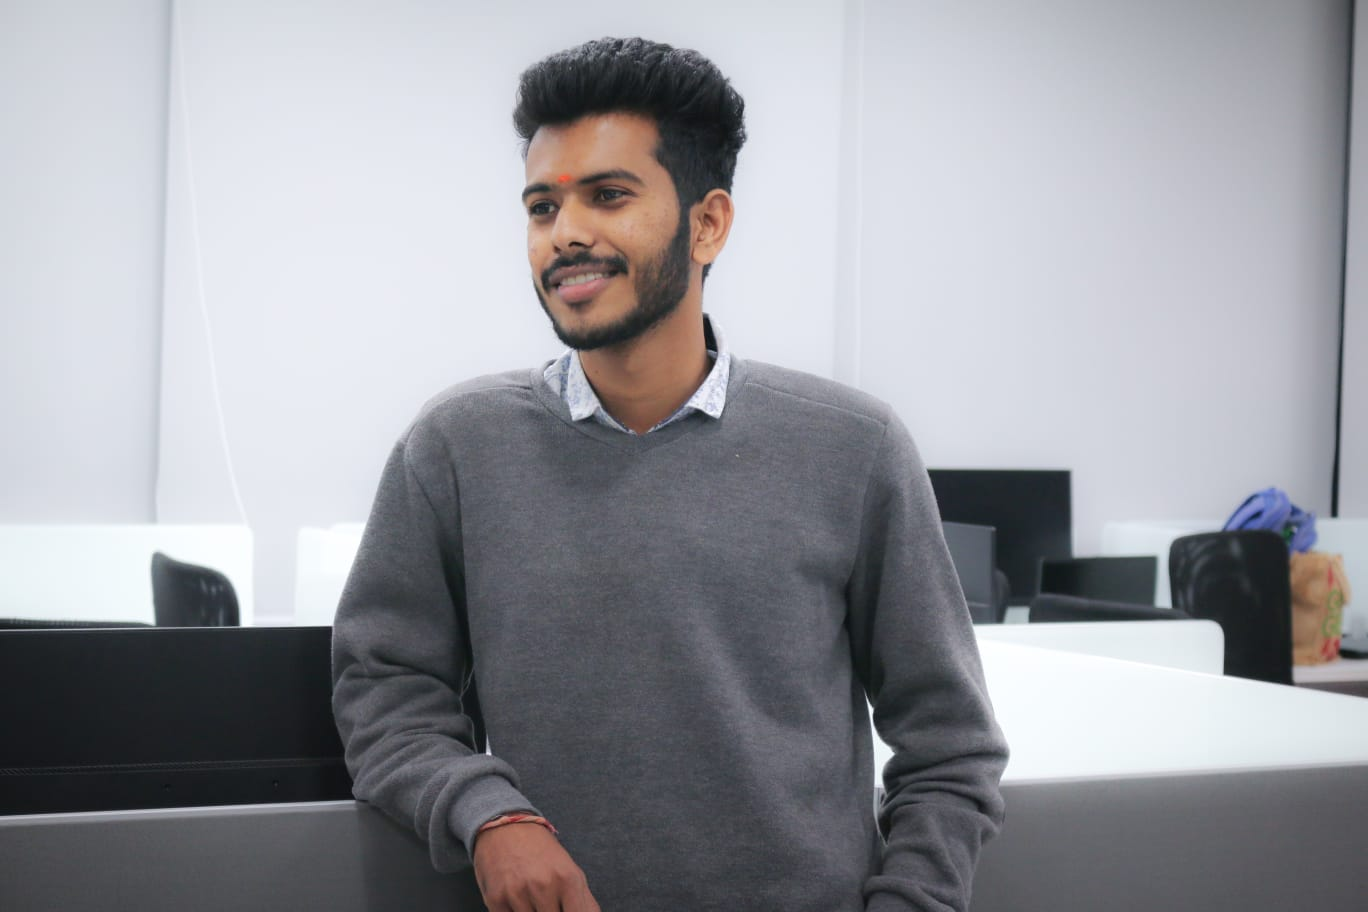
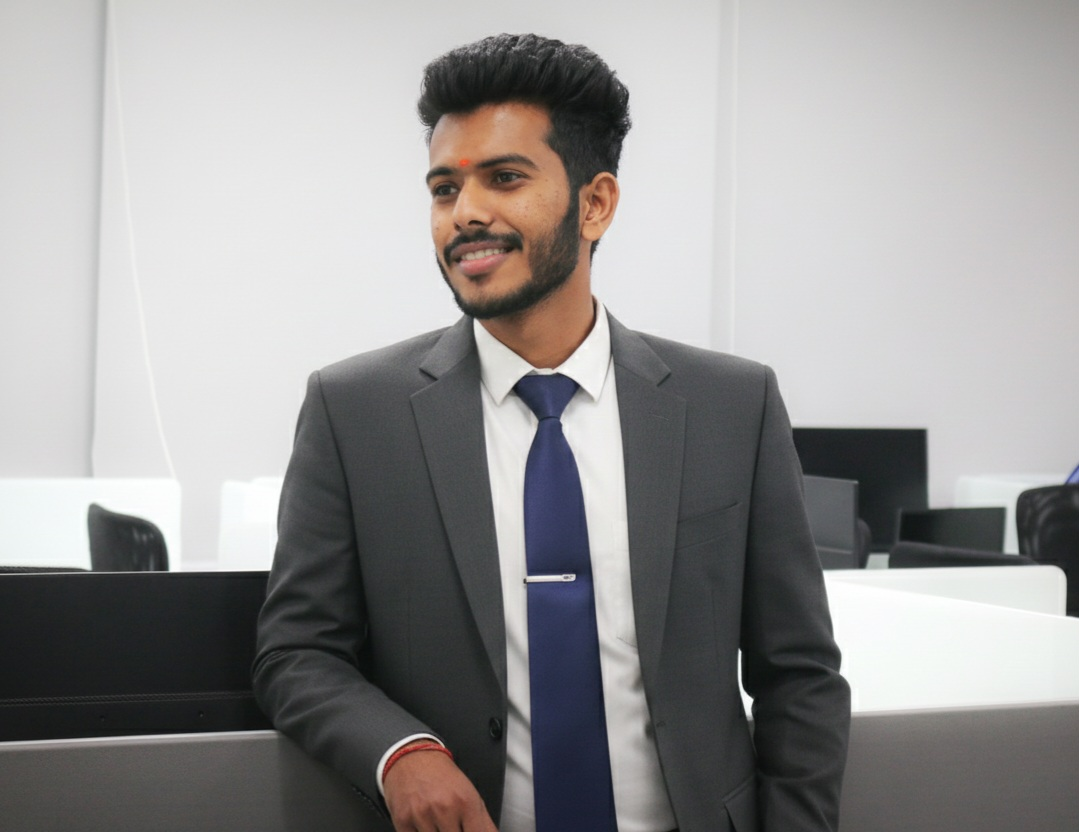
commit

diff --git a/src/components/home/TeamSection.tsx b/src/components/home/TeamSection.tsx
@@ -7,84 +7,123 @@ const TeamSection = () => {
     {
       name: "Godugu Venkatesh",
       role: "Founder & CEO",
-      title: "Director & CEO",
-      description: "Leading the company's strategic direction and advisory initiatives, driving digital innovation for smart, efficient facility management.",
+      title: "Founder & CEO",
+      description: "Visionary leader with deep expertise in facility operations and digital transformation. Drives the strategic vision of TechFacilityHub, focused on revolutionizing how hospitals, hotels, and enterprises manage their facilities through smart technology solutions.",
       image: "/venkatesh.jpeg",
       linkedin: "https://www.linkedin.com/in/godugu-venkatesh-b06a16362/",
+      skills: ["Strategic Leadership", "Business Development", "Facility Operations"],
     },
     {
-      name: "Praveen Kumar",
+      name: "Channu Praveen Kumar",
       role: "Co-Founder & CTO",
       title: "Co-Founder & CTO",
-      description: "Building and scaling TechFacilityHub's core platform with expertise in modern web technologies and scalable system design.",
+      description: "Full-stack architect with hands-on experience building scalable enterprise platforms. Leads the technical vision and development of TechFacilityHub's core platform, ensuring robust, secure, and high-performance solutions for complex facility management needs.",
       image: "/praveen.jpeg",
       linkedin: "https://www.linkedin.com/in/praveen-kumar2001/",
+      skills: ["System Architecture", "Full-Stack Development", "Cloud Infrastructure"],
     },
   ];
 
   return (
-    <section className="py-20 lg:py-28 bg-white" ref={sectionRef}>
+    <section className="py-20 lg:py-28 bg-gradient-to-b from-white to-gray-50/50" ref={sectionRef}>
       <div className="container mx-auto px-4 lg:px-8">
         <div className={`max-w-3xl mx-auto text-center mb-16 ${isVisible ? 'scroll-fade-up' : 'scroll-hidden'}`}>
+          <span className="inline-block px-4 py-1.5 rounded-full bg-primary/10 text-primary text-sm font-medium mb-4">
+            Leadership Team
+          </span>
           <h2 className="font-display text-3xl md:text-4xl lg:text-5xl font-bold text-foreground mb-6">
-            Meet The Team
+            Meet The Founders
           </h2>
-          <p className="text-lg text-muted-foreground">
-            The people behind TechFacilityHub — building systems that work
+          <p className="text-lg text-muted-foreground max-w-2xl mx-auto">
+            Passionate technologists and industry experts committed to transforming facility management 
+            through innovation and excellence.
           </p>
         </div>
 
-        <div className="grid md:grid-cols-2 gap-8 max-w-4xl mx-auto">
+        <div className="grid md:grid-cols-2 gap-8 lg:gap-12 max-w-5xl mx-auto">
           {team.map((member, index) => (
             <div
               key={index}
-              className={`group bg-gray-50/50 rounded-2xl p-8 border border-border/50 hover:border-primary/20 hover:shadow-xl transition-all duration-500 ${
+              className={`group bg-white rounded-3xl p-8 lg:p-10 border border-border/50 hover:border-primary/30 hover:shadow-2xl transition-all duration-500 ${
                 isVisible ? `scroll-blur-in stagger-${index + 1}` : 'scroll-hidden'
               }`}
             >
               {/* Avatar */}
-              <div className="relative w-24 h-24 mx-auto mb-6">
-                <div className="w-full h-full rounded-2xl overflow-hidden border-4 border-white shadow-lg">
+              <div className="relative w-28 h-28 mx-auto mb-6">
+                <div className="w-full h-full rounded-2xl overflow-hidden border-4 border-gray-100 shadow-xl group-hover:border-primary/20 transition-all duration-300">
                   <img
                     src={member.image}
                     alt={member.name}
-                    className="w-full h-full object-cover"
+                    className="w-full h-full object-cover group-hover:scale-110 transition-transform duration-500"
                   />
                 </div>
-                <div className="absolute -bottom-2 -right-2 w-8 h-8 rounded-lg bg-primary flex items-center justify-center shadow-lg">
-                  <svg className="w-4 h-4 text-white" fill="currentColor" viewBox="0 0 24 24">
+                <a
+                  href={member.linkedin}
+                  target="_blank"
+                  rel="noopener noreferrer"
+                  className="absolute -bottom-2 -right-2 w-10 h-10 rounded-xl bg-[#0077B5] hover:bg-[#006399] flex items-center justify-center shadow-lg transition-all duration-300 hover:scale-110"
+                >
+                  <svg className="w-5 h-5 text-white" fill="currentColor" viewBox="0 0 24 24">
                     <path d="M20.447 20.452h-3.554v-5.569c0-1.328-.027-3.037-1.852-3.037-1.853 0-2.136 1.445-2.136 2.939v5.667H9.351V9h3.414v1.561h.046c.477-.9 1.637-1.85 3.37-1.85 3.601 0 4.267 2.37 4.267 5.455v6.286zM5.337 7.433c-1.144 0-2.063-.926-2.063-2.065 0-1.138.92-2.063 2.063-2.063 1.14 0 2.064.925 2.064 2.063 0 1.139-.925 2.065-2.064 2.065zm1.782 13.019H3.555V9h3.564v11.452zM22.225 0H1.771C.792 0 0 .774 0 1.729v20.542C0 23.227.792 24 1.771 24h20.451C23.2 24 24 23.227 24 22.271V1.729C24 .774 23.2 0 22.222 0h.003z"/>
                   </svg>
-                </div>
+                </a>
               </div>
 
               {/* Info */}
               <div className="text-center">
-                <h3 className="font-display text-xl font-bold text-foreground mb-1">
+                <h3 className="font-display text-xl lg:text-2xl font-bold text-foreground mb-1">
                   {member.name}
                 </h3>
-                <p className="text-primary font-medium text-sm mb-4">
+                <p className="text-primary font-semibold text-sm mb-4">
                   {member.title}
                 </p>
                 <p className="text-muted-foreground text-sm leading-relaxed mb-6">
                   {member.description}
                 </p>
 
-                {/* LinkedIn Button */}
-                <a
-                  href={member.linkedin}
-                  target="_blank"
-                  rel="noopener noreferrer"
-                  className="inline-flex items-center gap-2 px-5 py-2.5 rounded-full bg-[#0077B5] hover:bg-[#006399] text-white text-sm font-medium transition-all duration-300 hover:scale-105 shadow-md hover:shadow-lg"
-                >
-                  <svg className="w-4 h-4" fill="currentColor" viewBox="0 0 24 24">
-                    <path d="M20.447 20.452h-3.554v-5.569c0-1.328-.027-3.037-1.852-3.037-1.853 0-2.136 1.445-2.136 2.939v5.667H9.351V9h3.414v1.561h.046c.477-.9 1.637-1.85 3.37-1.85 3.601 0 4.267 2.37 4.267 5.455v6.286zM5.337 7.433c-1.144 0-2.063-.926-2.063-2.065 0-1.138.92-2.063 2.063-2.063 1.14 0 2.064.925 2.064 2.063 0 1.139-.925 2.065-2.064 2.065zm1.782 13.019H3.555V9h3.564v11.452zM22.225 0H1.771C.792 0 0 .774 0 1.729v20.542C0 23.227.792 24 1.771 24h20.451C23.2 24 24 23.227 24 22.271V1.729C24 .774 23.2 0 22.222 0h.003z"/>
-                  </svg>
-                  Connect
-                </a>
+                {/* Skills */}
+                <div className="flex flex-wrap justify-center gap-2">
+                  {member.skills.map((skill, skillIndex) => (
+                    <span
+                      key={skillIndex}
+                      className="px-3 py-1 bg-gray-100 hover:bg-primary/10 hover:text-primary rounded-full text-xs font-medium text-muted-foreground transition-colors duration-300"
+                    >
+                      {skill}
+                    </span>
+                  ))}
+                </div>
               </div>
             </div>
           ))}
+        </div>
+
+        {/* Company Values */}
+        <div className={`mt-16 max-w-4xl mx-auto ${isVisible ? 'scroll-fade-up' : 'scroll-hidden'}`}>
+          <div className="bg-gradient-to-r from-primary/5 via-purple-500/5 to-primary/5 rounded-2xl p-8 lg:p-10 border border-primary/10">
+            <div className="text-center mb-8">
+              <h3 className="font-display text-xl lg:text-2xl font-bold text-foreground mb-2">
+                Our Mission
+              </h3>
+              <p className="text-muted-foreground max-w-2xl mx-auto">
+                To empower organizations with intelligent facility management solutions that reduce operational 
+                complexity, improve efficiency, and deliver exceptional experiences.
+              </p>
+            </div>
+            <div className="grid grid-cols-3 gap-6 text-center">
+              <div>
+                <p className="font-display text-3xl lg:text-4xl font-bold text-primary mb-1">50+</p>
+                <p className="text-sm text-muted-foreground">Facilities Managed</p>
+              </div>
+              <div>
+                <p className="font-display text-3xl lg:text-4xl font-bold text-primary mb-1">99%</p>
+                <p className="text-sm text-muted-foreground">Uptime Guaranteed</p>
+              </div>
+              <div>
+                <p className="font-display text-3xl lg:text-4xl font-bold text-primary mb-1">24/7</p>
+                <p className="text-sm text-muted-foreground">Support Available</p>
+              </div>
+            </div>
+          </div>
         </div>
       </div>
     </section>

diff --git a/src/pages/Index.tsx b/src/pages/Index.tsx
@@ -5,6 +5,7 @@ import FeaturesSection from "@/components/home/FeaturesSection";
 import IndustryUseCasesSection from "@/components/home/IndustryUseCasesSection";
 import WhyChooseSection from "@/components/home/WhyChooseSection";
 import TrustSection from "@/components/home/TrustSection";
+import TeamSection from "@/components/home/TeamSection";
 import FAQSection from "@/components/home/FAQSection";
 import TestimonialsSection from "@/components/home/TestimonialsSection";
 import CTASection from "@/components/home/CTASection";
@@ -30,13 +31,16 @@ const Index = () => {
       {/* 6. Trust Signals */}
       <TrustSection />
       
-      {/* 7. Testimonials */}
+      {/* 7. Meet The Founders */}
+      <TeamSection />
+      
+      {/* 8. Testimonials */}
       <TestimonialsSection />
       
-      {/* 8. FAQ */}
+      {/* 9. FAQ */}
       <FAQSection />
       
-      {/* 9. Final CTA */}
+      {/* 10. Final CTA */}
       <CTASection />
     </Layout>
   );

diff --git a/src/components/home/HeroSection.tsx b/src/components/home/HeroSection.tsx
@@ -55,7 +55,7 @@ const HeroSection = () => {
                 isLoaded ? 'opacity-100 translate-y-0' : 'opacity-0 translate-y-8'
               }`}
             >
-              <span className="gradient-text">Facility Management Software</span>
+              <span className="text-primary">Facility Management Software</span>
               <br />
               <span className="inline-block">for Modern Enterprises</span>
             </h1>

diff --git a/src/components/layout/Footer.tsx b/src/components/layout/Footer.tsx
@@ -18,7 +18,7 @@ const Footer = () => {
           <div className="lg:col-span-2 space-y-6">
             <Link to="/" className="flex items-center gap-2">
               <img 
-                src="/TF HUB LOGO.png" 
+                src="/logo.png" 
                 alt="TechFacilityHub Logo" 
                 className="w-10 h-10 object-contain"
               />

diff --git a/src/components/layout/Header.tsx b/src/components/layout/Header.tsx
@@ -22,7 +22,7 @@ const Header = () => {
           {/* Logo */}
           <Link to="/" className="flex items-center gap-2 group">
             <img 
-              src="/TF HUB LOGO.png" 
+              src="/logo.png" 
               alt="TechFacilityHub Logo" 
               className="w-10 h-10 object-contain"
             />
